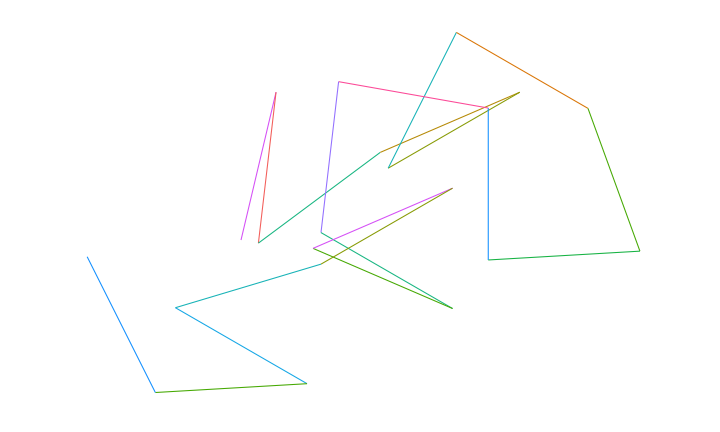
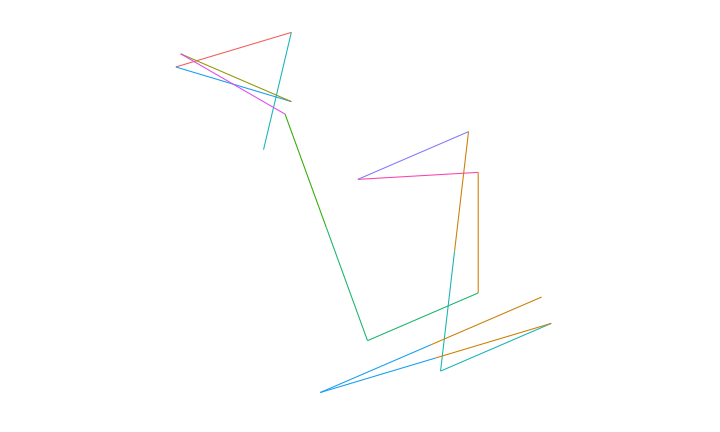
Cleaned up the words shape post

diff --git a/_posts/2015-12-22-wordShapes.md b/_posts/2015-12-22-wordShapes.md
@@ -12,11 +12,14 @@ desc: A random walk style visualization of word and sentence shape.
 
 ## Intro: 
 
-After seeing [The Art of Pi](http://www.visualcinnamon.com/portfolio/the-art-in-pi) by Nadieh Bremer. I was inspired to use this random-walk style technique to interrogate the shape of other things. Pretty much every non-real number had already been taken so I figured why not move out of the math domain and into something more... personal. 
+After seeing [The Art of Pi](http://www.visualcinnamon.com/portfolio/the-art-in-pi) by Nadieh Bremer I was inspired to use her random-walk style technique to interrogate the shape of other things. Pretty much every irrational number has already been visualized so I figured why not move out of the math domain and into something more... personal. 
 
-Many efforts have been made to look into the "shape" of stories (see the post above this one for my take on that,) but not much attention has been paid to a smaller scale. By converting a word or small sentence to a series of numbers and then generating a walk based upon those numbers we are able to construct a kind of fingerprint for any given set of characters. Keep in mind this fingerprint means absolutely nothing is arbitrary in the most pure sense of the word, but it is interesting none-the-less. 
+Many efforts have been made to look into the "shape" of stories (see [this post](http://nickstrayer.me/nashvilleBioStats//2015/12/storyShapes.html) for my take on it,) but not much attention has been paid to a smaller scale. By converting a word or small sentence to a series of numbers and then generating a walk based upon those numbers we are able to construct a kind of fingerprint for any given set of characters. Keep in mind this fingerprint means absolutely nothing and is arbitrary in the most pure sense of the word, but it is interesting none-the-less. 
 
-The plotting and walk code is almost unabashedly wholesale taken from Nadieh Bremer's [github repo](https://github.com/nbremer/artinpi) for her project.
+The plotting and walk code is almost unabashedly wholesale taken from Nadieh Bremer's [github repo](https://github.com/nbremer/artinpi) for her project. If you haven't checked out her [site/work](http://www.visualcinnamon.com/portfolio) I highly recommend it!
+
+
+---
 
 ## Converting a string to numbers: 
 
@@ -44,30 +47,28 @@ stringToVec = function(string){
 ##  [1]  8  5 12 12 15  0 27 23 15 18 12  4
 {% endhighlight %}
 
-Awesome, now that we have that we just need a way to translate these numbers into a random-walk style coordinate list. 
+Awesome, now that we have that we just need a way to translate these numbers into a random-walk style coordinate list. We need to scale the domain of $$[1, 27]$$ to the range $$[0 , 1]$$ so that we can multiply by $$2\pi$$ and get a radian corresponding to some angle around a circle.  
 
 
 {% highlight r %}
 toRW = function(vec){
-  
+  #original code from above linked Bremer github repo. 
   N <- length(vec)
-  Ncols <- 500
-  largest <- 27 
+  l <- 27 #the biggest value we can see. 
   
   x <- y <- rep(NULL, length(vec))
   x[1] <- 0
   y[1] <- 0
   
-  #Calculate new position for each digit, based on the position of the old digit and the 
+  #Calculate new position for each value, based on the position of the old digit and the 
   #angle is determined by the digit itself
   for (i in 2:length(vec)){
-      x[i] <- x[(i-1)] + sin((pi*2)*(vec[i]/largest)) #scale by largest observed val
-      y[i] <- y[(i-1)] + cos((pi*2)*(vec[i]/largest)) 
-  }#for i
+      x[i] <- x[(i-1)] + sin((pi*2)*(vec[i]/l)) #scale by largest observed val
+      y[i] <- y[(i-1)] + cos((pi*2)*(vec[i]/l)) 
+  }
   
   #Return the dataframe. 
-  data.frame(val=vec, x=x, y=y, ID=1:(length(x)), 
-             ColID = 1:(length(x))%%Ncols, stringsAsFactors=F)
+  data.frame(val=vec, x=x, y=y, stringsAsFactors=F)
 }
 
 #again test this to make sure it's working. 
@@ -76,28 +77,27 @@ kable(toRW(test))
 
 
 
-| val|          x|          y| ID| ColID|
-|---:|----------:|----------:|--:|-----:|
-|   8|  0.0000000|  0.0000000|  1|     1|
-|   5|  0.9182161|  0.3960798|  2|     2|
-|  12|  1.2602363| -0.5436129|  3|     3|
-|  12|  1.6022564| -1.4833055|  4|     4|
-|  15|  1.2602363| -2.4229981|  5|     5|
-|   0|  1.2602363| -1.4229981|  6|     6|
-|  27|  1.2602363| -0.4229981|  7|     7|
-|  23|  0.4581131|  0.1741605|  8|     8|
-|  15|  0.1160929| -0.7655321|  9|     9|
-|  18| -0.7499325| -1.2655321| 10|    10|
-|  12| -0.4079123| -2.2052247| 11|    11|
-|   4|  0.3942108| -1.6080662| 12|    12|
-
-
-
+| val|          x|          y|
+|---:|----------:|----------:|
+|   8|  0.0000000|  0.0000000|
+|   5|  0.9182161|  0.3960798|
+|  12|  1.2602363| -0.5436129|
+|  12|  1.6022564| -1.4833055|
+|  15|  1.2602363| -2.4229981|
+|   0|  1.2602363| -1.4229981|
+|  27|  1.2602363| -0.4229981|
+|  23|  0.4581131|  0.1741605|
+|  15|  0.1160929| -0.7655321|
+|  18| -0.7499325| -1.2655321|
+|  12| -0.4079123| -2.2052247|
+|   4|  0.3942108| -1.6080662|
 
 Now make a plot function to draw the "random" walk. 
 
 
 {% highlight r %}
+library(ggplot2)
+
 plotRW <- function(rwData){
   rwPlot <- ggplot(rwData, aes(x=x, y=y, group="1")) +
     geom_path(aes(color = factor(val)), size=0.5) + 
@@ -106,7 +106,6 @@ plotRW <- function(rwData){
     theme(line = element_blank(),
           text = element_blank(),
           line = element_blank(),
-          title = element_blank(),
           legend.position="none",
           panel.border = element_blank(),
           panel.background = element_blank())
@@ -122,25 +121,33 @@ plotRW <- function(rwData){
 plotRW(toRW(stringToVec("Nicholas Strayer")))
 {% endhighlight %}
 
-<img src="/nashvilleBioStats/figures/source/2015-12-22-wordShapes/unnamed-chunk-5-1.png" title="plot of chunk unnamed-chunk-5" alt="plot of chunk unnamed-chunk-5" style="display: block; margin: auto;" />
+<img src="/nashvilleBioStats/figures/source/2015-12-22-wordShapes/unnamed-chunk-4-1.png" title="plot of chunk unnamed-chunk-4" alt="plot of chunk unnamed-chunk-4" style="display: block; margin: auto;" />
 
 ---
 
 <br>
 
 <div style="text-align: center; font-weight: bold">"Vanderbilt University"</div>
-<img src="/nashvilleBioStats/figures/source/2015-12-22-wordShapes/unnamed-chunk-6-1.png" title="plot of chunk unnamed-chunk-6" alt="plot of chunk unnamed-chunk-6" style="display: block; margin: auto;" />
+<img src="/nashvilleBioStats/figures/source/2015-12-22-wordShapes/unnamed-chunk-5-1.png" title="plot of chunk unnamed-chunk-5" alt="plot of chunk unnamed-chunk-5" style="display: block; margin: auto;" />
 
 ---
 
 <br>
 
 <div style="text-align: center; font-weight: bold">"Nashville Tennessee"</div>
-<img src="/nashvilleBioStats/figures/source/2015-12-22-wordShapes/unnamed-chunk-7-1.png" title="plot of chunk unnamed-chunk-7" alt="plot of chunk unnamed-chunk-7" style="display: block; margin: auto;" />
+<img src="/nashvilleBioStats/figures/source/2015-12-22-wordShapes/unnamed-chunk-6-1.png" title="plot of chunk unnamed-chunk-6" alt="plot of chunk unnamed-chunk-6" style="display: block; margin: auto;" />
 
 ---
 
 <br>
 
 <div style="text-align: center; font-weight: bold">"Biostatistics are best statistics"  </div>
+<img src="/nashvilleBioStats/figures/source/2015-12-22-wordShapes/unnamed-chunk-7-1.png" title="plot of chunk unnamed-chunk-7" alt="plot of chunk unnamed-chunk-7" style="display: block; margin: auto;" />
+
+---
+
+<br>
+
+<div style="text-align: center; font-weight: bold">"Happy Holidays"  </div>
 <img src="/nashvilleBioStats/figures/source/2015-12-22-wordShapes/unnamed-chunk-8-1.png" title="plot of chunk unnamed-chunk-8" alt="plot of chunk unnamed-chunk-8" style="display: block; margin: auto;" />
+
